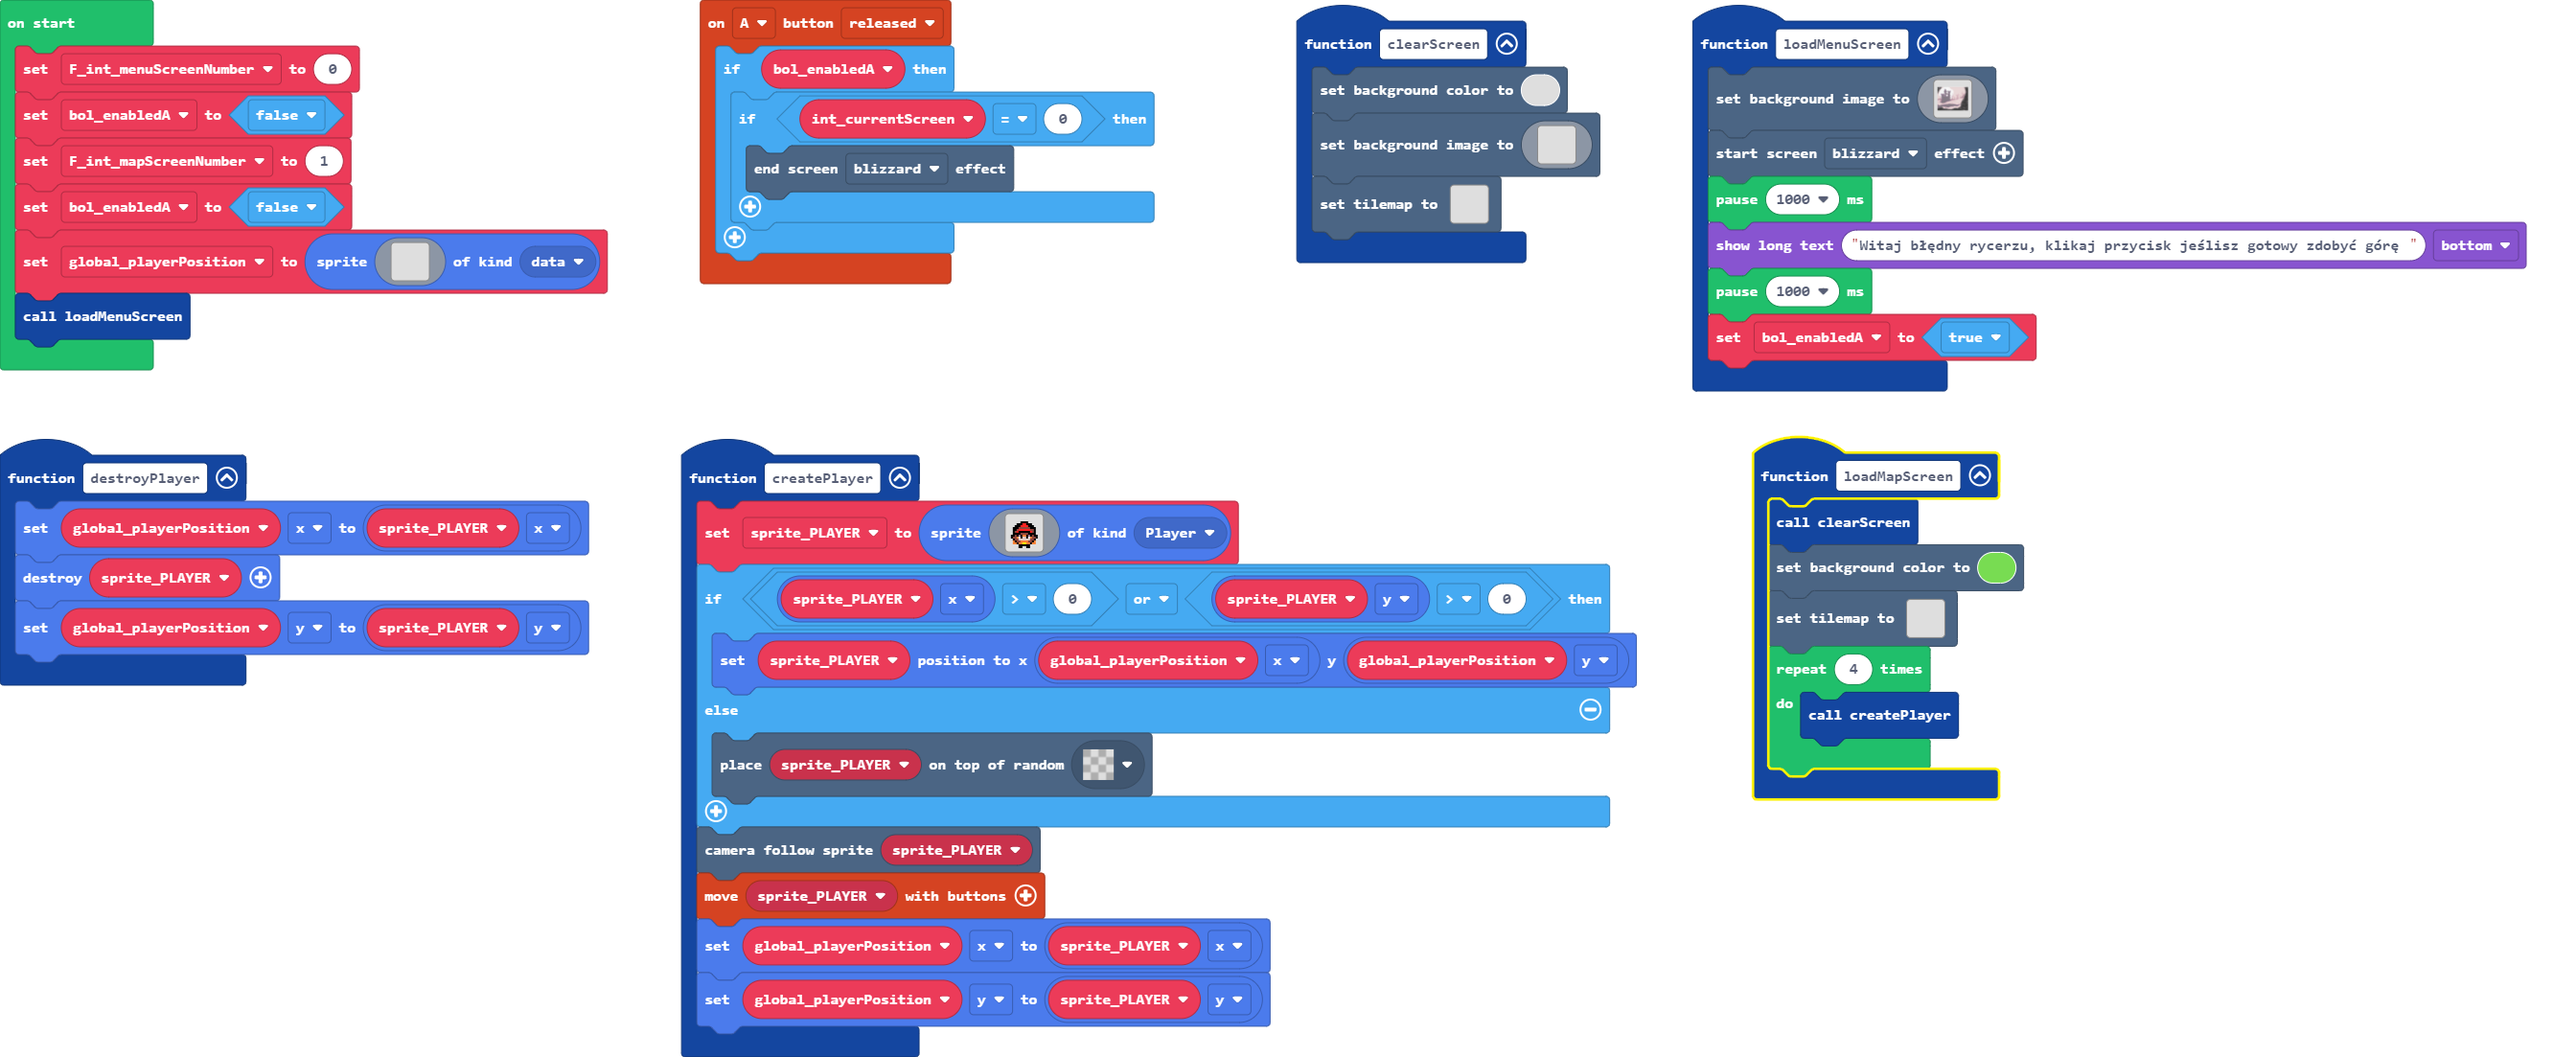
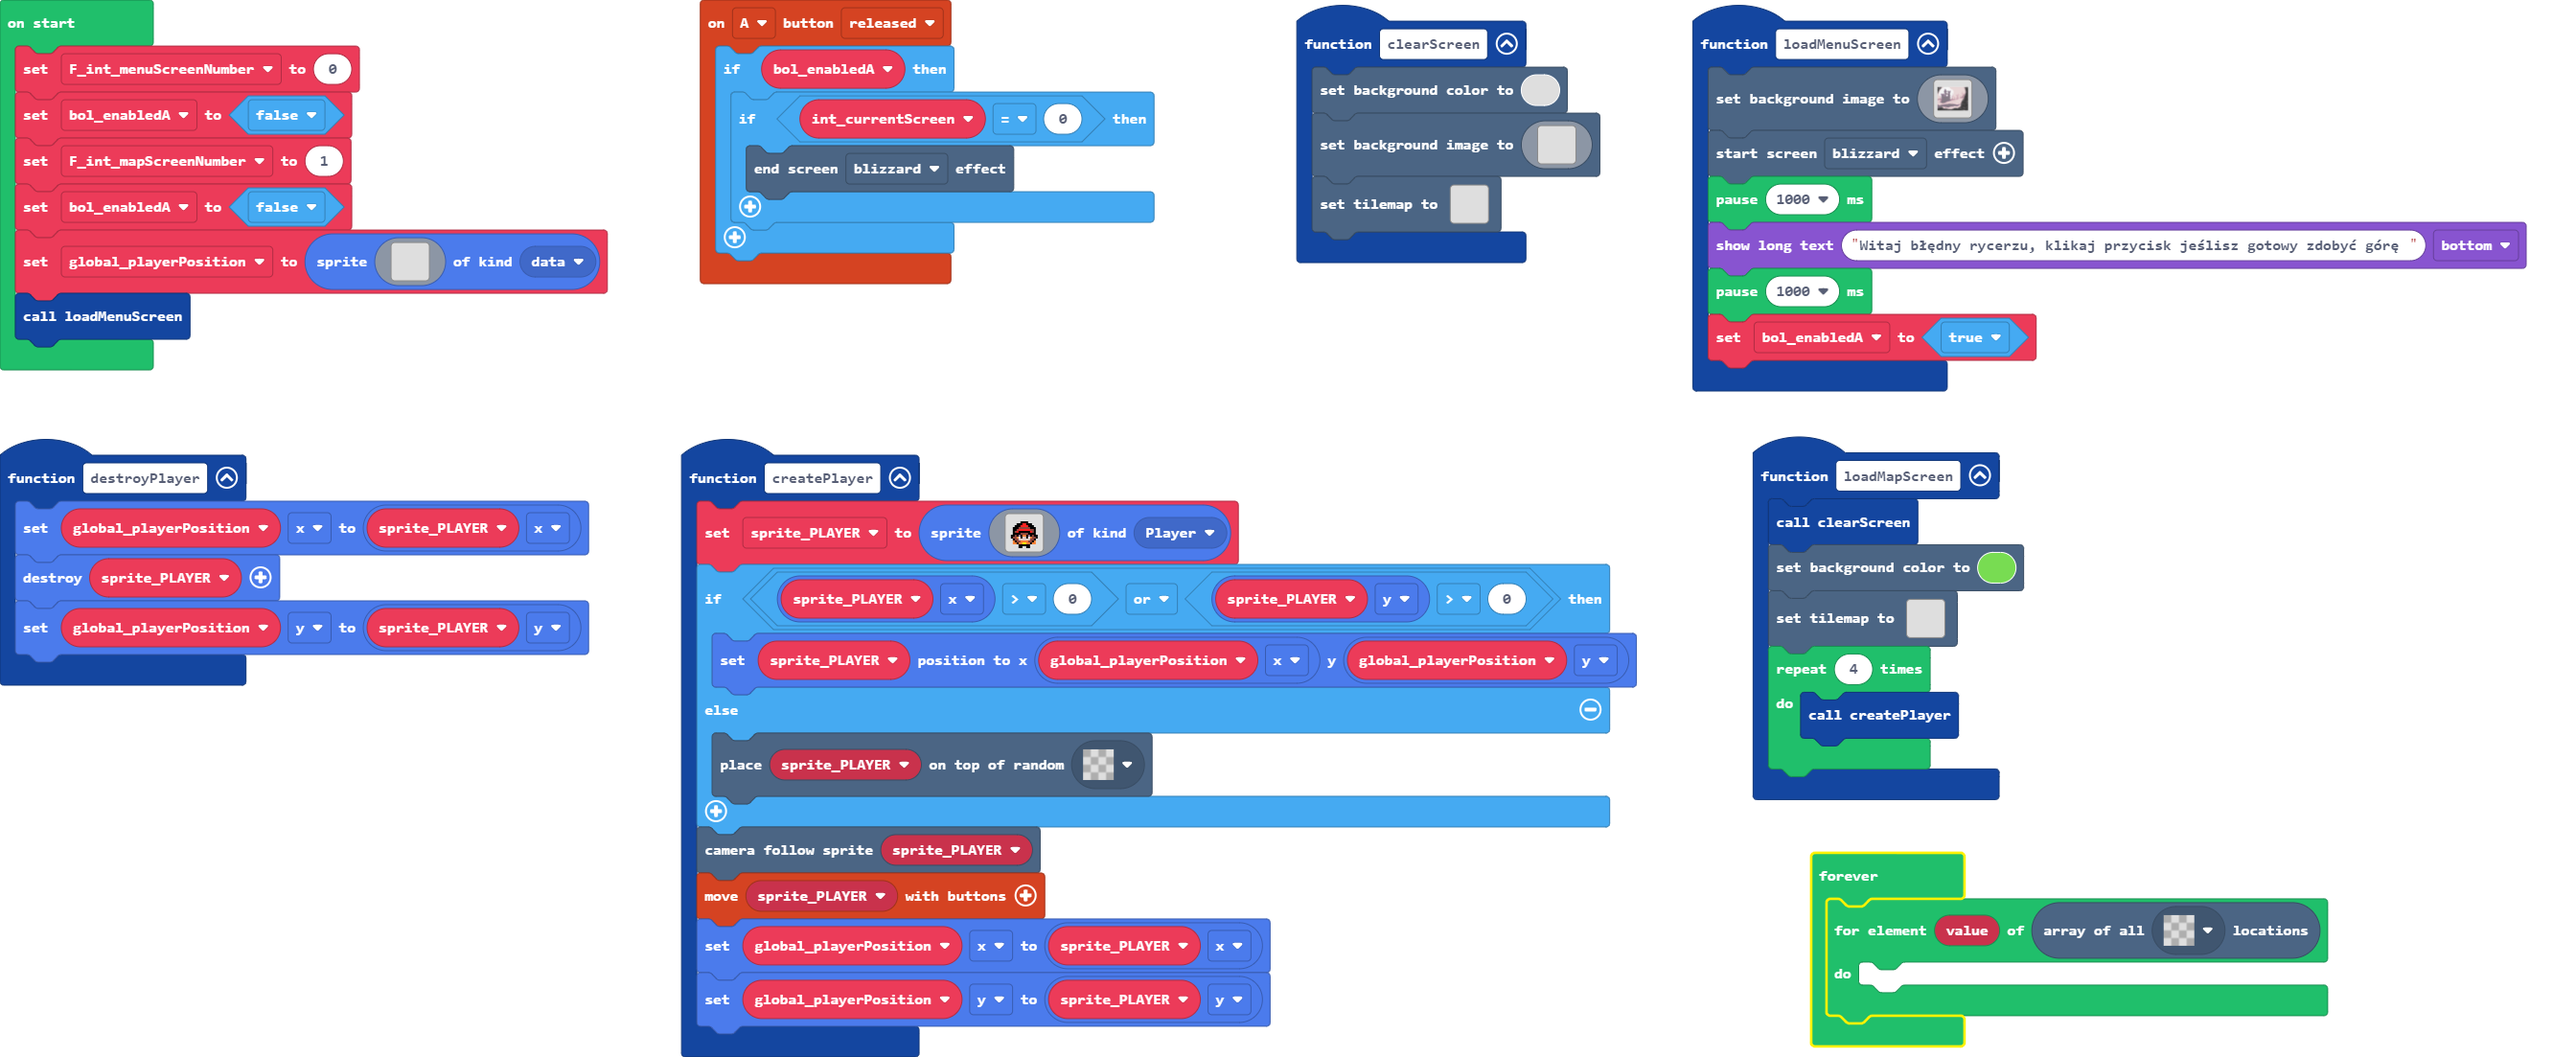
Update main.blocks, main.ts, tilemap.g.jres, tilemap.g.ts

Changed region(s): [[0.6875, 0.8015, 0.9062, 1.0], [0.6875, 0.709, 0.7188, 0.7398], [0.6875, 0.4007, 0.7188, 0.4316]]

diff --git a/tilemap.g.ts b/tilemap.g.ts
@@ -24,25 +24,6 @@ namespace myTiles {
 . . . . . . . . . . . . . . . . 
 . . . . . . . . . . . . . . . . 
 `, [myTiles.transparency16], TileScale.Sixteen);
-            case "level1":
-            case "level1":return tiles.createTilemap(hex`1000100000000000000000000000000000000000000000000000000000000000000000000000000000000000000000000000000000000000000000000000000000000000000000000000000000000000000000000000000000000000000000000000000000000000000000000000000000000000000000000000000000000000000000000000000000000000000000000000000000000000000000000000000000000000000000000000000000000000000000000000000000000000000000000000000000000000000000000000000000000000000000000000000000000000000000000000000000000000000000000000000000000000000000000000000000000000`, img`
-. . . . . . . . . . . . . . . . 
-. . . . . . . . . . . . . . . . 
-. . . . . . . . . . . . . . . . 
-. . . . . . . . . . . . . . . . 
-. . . . . . . . . . . . . . . . 
-. . . . . . . . . . . . . . . . 
-. . . . . . . . . . . . . . . . 
-. . . . . . . . . . . . . . . . 
-. . . . . . . . . . . . . . . . 
-. . . . . . . . . . . . . . . . 
-. . . . . . . . . . . . . . . . 
-. . . . . . . . . . . . . . . . 
-. . . . . . . . . . . . . . . . 
-. . . . . . . . . . . . . . . . 
-. . . . . . . . . . . . . . . . 
-. . . . . . . . . . . . . . . . 
-`, [], -Infinity);
             case "level4":
             case "level4":return tiles.createTilemap(hex`1000100000000000000000000000000000000000000000000000000000000000000000000000000000000000000000000000000000000000000000000000000000000000000000000000000000000000000000000000000000000000000000000000000000000000000000000000000000000000000000000000000000000000000000000000000000000000000000000000000000000000000000000000000000000000000000000000000000000000000000000000000000000000000000000000000000000000000000000000000000000000000000000000000000000000000000000000000000000000000000000000000000000000000000000000000000000000`, img`
 . . . . . . . . . . . . . . . . 
@@ -62,6 +43,44 @@ namespace myTiles {
 . . . . . . . . . . . . . . . . 
 . . . . . . . . . . . . . . . . 
 `, [myTiles.transparency16], TileScale.Sixteen);
+            case "level5":
+            case "level5":return tiles.createTilemap(hex`1000100000000000000000000000000000000000000000000000000000000000000000000000000000000000000000000000000000000000000000000000000000000000000000000000000000000000000000000000000000000000000000000000000000000000000000000000000000000000000000000000000000000000000000000000000000000000000000000000000000000000000000000000000000000000000000000000000000000000000000000000000000000000000000000000000000000000000000000000000000000000000000000000000000000000000000000000000000000000000000000000000000000000000000000000000000000000`, img`
+. . . . . . . . . . . . . . . . 
+. . . . . . . . . . . . . . . . 
+. . . . . . . . . . . . . . . . 
+. . . . . . . . . . . . . . . . 
+. . . . . . . . . . . . . . . . 
+. . . . . . . . . . . . . . . . 
+. . . . . . . . . . . . . . . . 
+. . . . . . . . . . . . . . . . 
+. . . . . . . . . . . . . . . . 
+. . . . . . . . . . . . . . . . 
+. . . . . . . . . . . . . . . . 
+. . . . . . . . . . . . . . . . 
+. . . . . . . . . . . . . . . . 
+. . . . . . . . . . . . . . . . 
+. . . . . . . . . . . . . . . . 
+. . . . . . . . . . . . . . . . 
+`, [myTiles.transparency16], TileScale.Sixteen);
+            case "level1":
+            case "level1":return tiles.createTilemap(hex`1000100000000000000000000000000000000000000000000000000000000000000000000000000000000000000000000000000000000000000000000000000000000000000000000000000000000000000000000000000000000000000000000000000000000000000000000000000000000000000000000000000000000000000000000000000000000000000000000000000000000000000000000000000000000000000000000000000000000000000000000000000000000000000000000000000000000000000000000000000000000000000000000000000000000000000000000000000000000000000000000000000000000000000000000000000000000000`, img`
+. . . . . . . . . . . . . . . . 
+. . . . . . . . . . . . . . . . 
+. . . . . . . . . . . . . . . . 
+. . . . . . . . . . . . . . . . 
+. . . . . . . . . . . . . . . . 
+. . . . . . . . . . . . . . . . 
+. . . . . . . . . . . . . . . . 
+. . . . . . . . . . . . . . . . 
+. . . . . . . . . . . . . . . . 
+. . . . . . . . . . . . . . . . 
+. . . . . . . . . . . . . . . . 
+. . . . . . . . . . . . . . . . 
+. . . . . . . . . . . . . . . . 
+. . . . . . . . . . . . . . . . 
+. . . . . . . . . . . . . . . . 
+. . . . . . . . . . . . . . . . 
+`, [], -Infinity);
             case "level2":
             case "level2":return tiles.createTilemap(hex`1000100000000000000000000000000000000000000000000000000000000000000000000000000000000000000000000000000000000000000000000000000000000000000000000000000000000000000000000000000000000000000000000000000000000000000000000000000000000000000000000000000000000000000000000000000000000000000000000000000000000000000000000000000000000000000000000000000000000000000000000000000000000000000000000000000000000000000000000000000000000000000000000000000000000000000000000000000000000000000000000000000000000000000000000000000000000000`, img`
 . . . . . . . . . . . . . . . . 

diff --git a/main.ts b/main.ts
@@ -332,3 +332,8 @@ global_playerPosition = sprites.create(img`
     . . . . . . . . . . . . . . . . 
     `, SpriteKind.data)
 loadMenuScreen()
+forever(function () {
+    for (let value of tiles.getTilesByType(assets.tile`transparency16`)) {
+    	
+    }
+})
